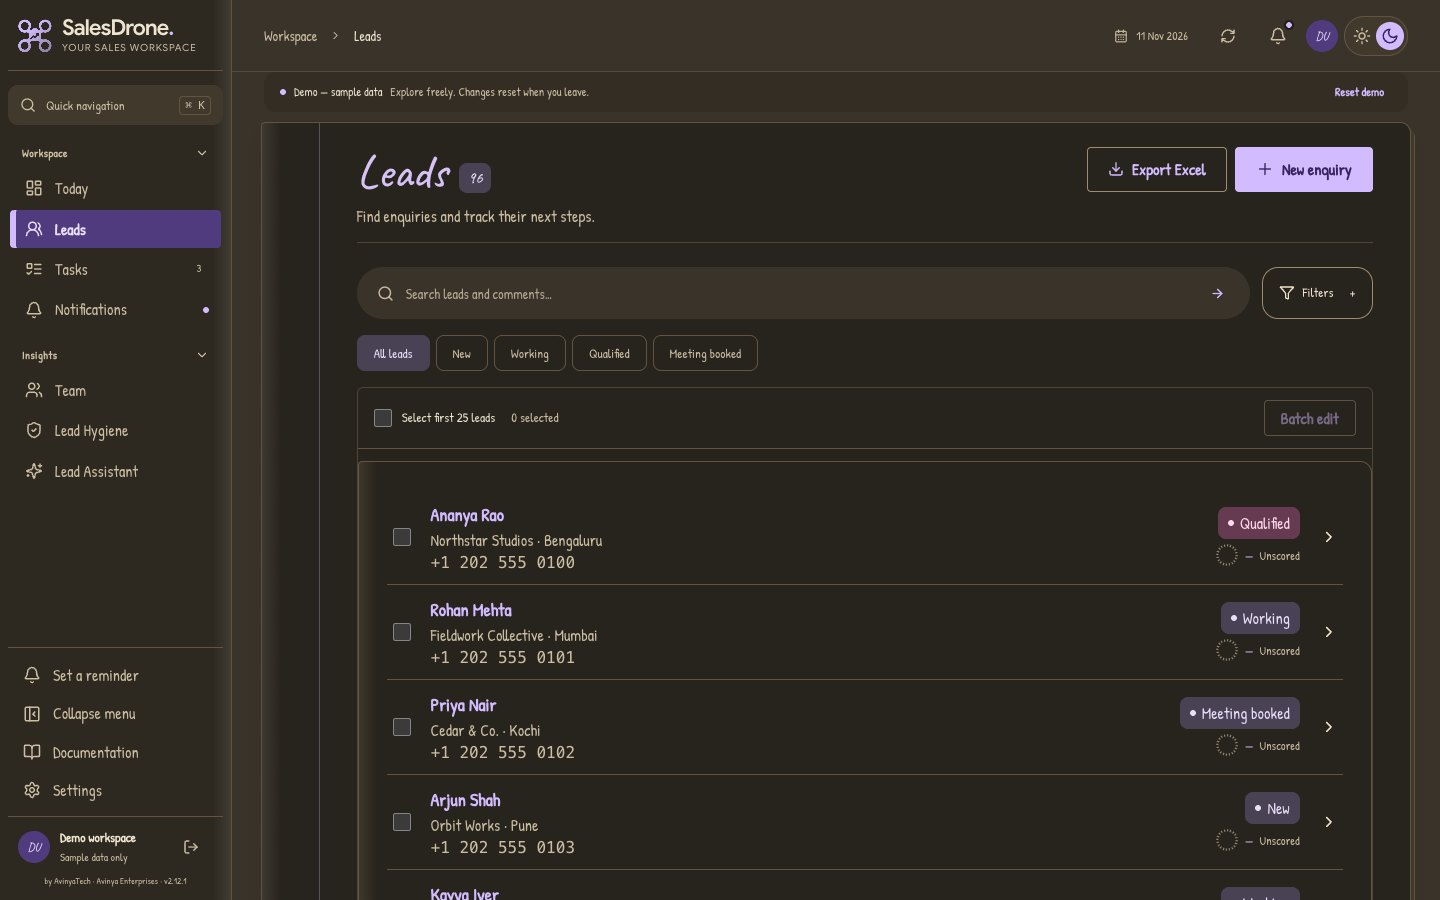
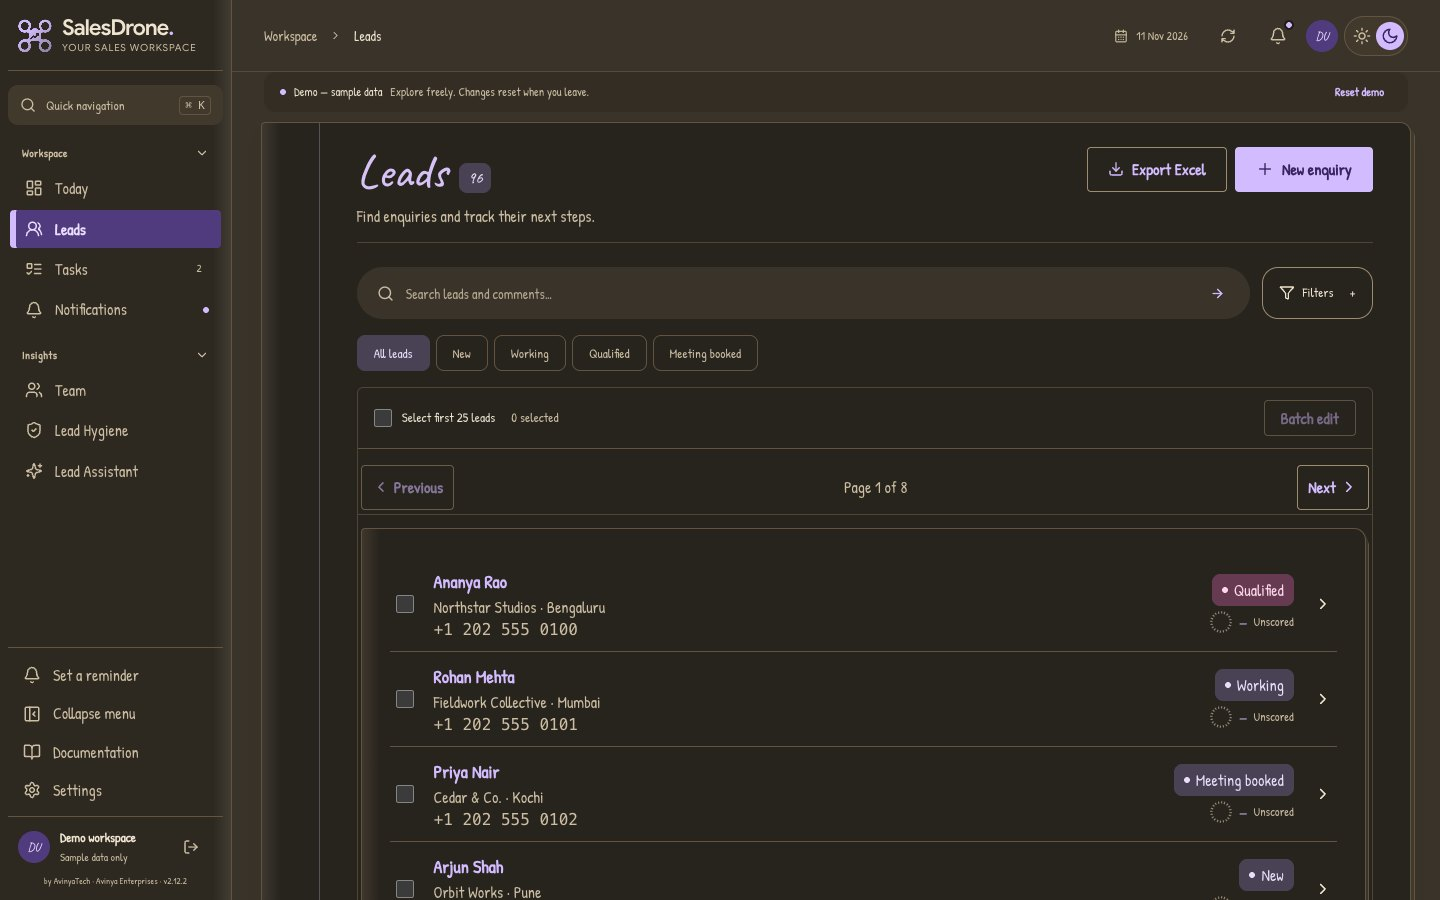
Prepare SalesDrone v2.12.2

diff --git a/CHANGELOG.md b/CHANGELOG.md
@@ -3,23 +3,13 @@
 Application versions follow [Semantic Versioning](https://semver.org/).
 API contract versions are independent from application versions.
 
+## [2.12.2] - 2026-11-11
 
-
-
-
-
-
-
-
-
-
-
-
-
-
-
-
-
+### Fixed
+- Keep the Tasks register aligned on wide panels and group task details into compact rows on phones.
+- Open mobile Leads search and filters from the title row and keep batch editing on wider screens.
+- Show one AI badge on the dashboard snapshot and align the About SalesDrone cards to the same edges.
+- Turn the Book mode lead index one sheet at a time with scroll, swipe, keyboard and page controls. Only the changing sheet curls. The workspace navigation, headings, filters and page controls stay outside the animation. Dashboard uses the same turn across four sheets.
 
 ## [2.12.1] - 2026-11-11
 
@@ -43,15 +33,6 @@ API contract versions are independent from application versions.
 
 ### Changed
 - Connect the existing GA4 stream to opt-in workspace page counts. Control sharing under Settings → About SalesDrone. Lead records, search terms and account details are excluded.
-
-## [Unreleased]
-
-### Fixed
-- Keep the Tasks register aligned on wide panels and group task details into compact rows on phones.
-- Open mobile Leads search and filters from the title row and keep batch editing on wider screens.
-- Show one AI badge on the dashboard snapshot and align the About SalesDrone cards to the same edges.
-- Turn the Book mode lead index one sheet at a time with scroll, swipe, keyboard and page controls. Only the changing sheet curls. The workspace navigation, headings, filters and page controls stay outside the animation. Dashboard uses the same turn across four sheets.
-
 
 ## [2.10.4] - 2026-11-08
 

diff --git a/README.md b/README.md
@@ -152,7 +152,7 @@ The full lead page opens in **Comments**. Switch to **All** to see loaded activi
 
 Open **Settings → Appearance & time**, enable **Book mode**, and save. The workspace uses bound paper pages, section tabs and handwriting. Scroll or swipe on the Leads index to turn one page at a time, or use Previous and Next. Open a lead to continue in the same book. Accent palettes and interface fonts are personal to your account.
 
-![Book mode lead workspace with fictional data and warm paper colours.](site/assets/screenshots/book-mode-light.jpg?sha=78f2e2c5ffcd)
+![Book mode lead workspace with fictional data and warm paper colours.](site/assets/screenshots/book-mode-light.jpg?sha=5e9d688e5d01)
 
 [Book mode dashboard](site/assets/screenshots/book-dashboard-demo.jpg) · [Lead detail](site/assets/screenshots/book-lead-detail-demo.jpg) · [Mobile enquiry form](site/assets/screenshots/book-form-mobile-demo.jpg)
 
@@ -160,7 +160,7 @@ Saved settings now have a [durable audit trail](docs/SETTINGS-AUDIT.md) with saf
 
 Layouts and typography across phones, tablets, laptops and desktops follow the [SalesDrone design principles](docs/DESIGN-SYSTEM.md), adapted from Material 3 while retaining personal font and Book mode preferences. Open Filters for advanced search options; opening a lead on a phone goes straight to its full page. Shared [Wondel Design & UX skills](skills/WONDEL-SOURCE.md) are available through `.agents/skills`.
 
-![Mobile lead list with synthetic data and compact filters.](site/assets/screenshots/mobile-leads-demo.jpg?sha=337808038573)
+![Mobile lead list with synthetic data and compact filters.](site/assets/screenshots/mobile-leads-demo.jpg?sha=f0705a1b343b)
 
 ## Reviewed across screen sizes
 

diff --git a/docs/SETTINGS.md b/docs/SETTINGS.md
@@ -1,6 +1,6 @@
 # Customize SalesDrone
 
-Settings guide for **v2.12.1**. Desktop groups expand to reveal their sections; mobile uses a grouped Settings section selector. Admin-only sections are hidden for other members. Changes to workspace data are authorized by the API, not by navigation.
+Settings guide for **v2.12.2**. Desktop groups expand to reveal their sections; mobile uses a grouped Settings section selector. Admin-only sections are hidden for other members. Changes to workspace data are authorized by the API, not by navigation.
 
 ## Personal → Profile
 

diff --git a/docs/PRODUCT-GUIDE.md b/docs/PRODUCT-GUIDE.md
@@ -1,6 +1,6 @@
 # SalesDrone product handbook
 
-Version 2.12.1
+Version 2.12.2
 
 [Complete settings reference](SETTINGS.md) · [API guide](API.md) · [Technical architecture](TECHNICAL.md)
 
